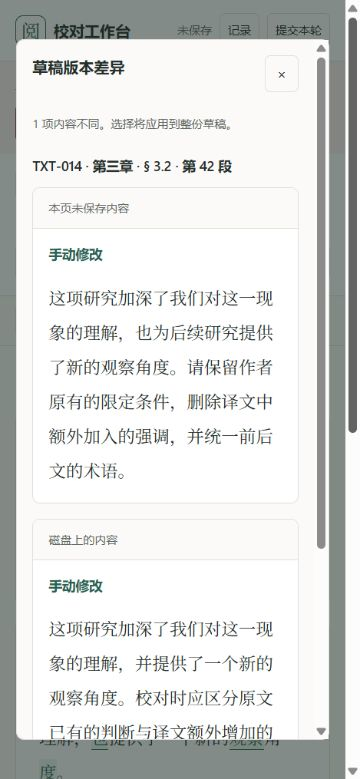
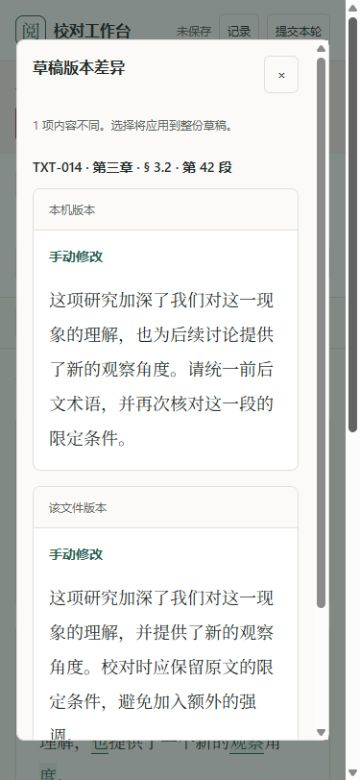
docs: rewrite README for readers and clarify draft version names

diff --git a/web/scripts/app.js b/web/scripts/app.js
@@ -181,18 +181,18 @@ async function compareDrafts() {
         ...differences.map(({item, local, remote: other}) => el("section", {class: "draft-difference"}, [
           el("h3", {}, `${item.id} · ${item.location || "审核条目"}`),
           el("div", {class: "comparison"}, [
-            draftVersion(item, local, "本页未保存内容"),
-            draftVersion(item, other, "磁盘上的内容"),
+            draftVersion(item, local, "本机版本"),
+            draftVersion(item, other, "该文件版本"),
           ]),
         ])),
         el("details", {class: "technical-details"}, [
           el("summary", {}, "技术详情"),
-          el("pre", {}, JSON.stringify({local: drafts.items, disk: remote.drafts.items}, null, 2)),
+          el("pre", {}, JSON.stringify({local: drafts.items, file: remote.drafts.items}, null, 2)),
         ]),
       ],
       [
         [
-          "保留磁盘版本",
+          "保留该文件版本",
           () => {
             drafts = structuredClone(remote.drafts);
             remoteRevision = drafts.revision;
@@ -205,10 +205,10 @@ async function compareDrafts() {
           },
         ],
         [
-          "使用本页版本",
+          "使用本机版本",
           async () => {
             if (remote.drafts.material_hash !== drafts.material_hash) {
-              notify("材料已经改变，请下载本页草稿并建立新一轮。");
+              notify("材料已经改变，请下载本机草稿并建立新一轮。");
               return;
             }
             remoteRevision = remote.drafts.revision;
@@ -1275,7 +1275,7 @@ async function boot() {
     render();
     const local = JSON.parse(sessionStorage.getItem(backupKey()) || "null");
     if (local && local.material_hash === drafts.material_hash)
-      notify("发现本页未保存的草稿。", [
+      notify("发现本机未保存的草稿。", [
         [
           "恢复",
           () => {

diff --git a/README.md b/README.md
@@ -1,99 +1,61 @@
-# 校对工作台
+# 校对工作台 · Review Workbench
 
-轻量的本地人工校对工具：原生网页、Python 服务、JSON 决定、Git 基准。支持中文 diff、术语、OCR、图片、TeX 公式和表格。业务 agent 负责准备材料与修改原稿，工具只保存和展示人工审核结果。
+在浏览器里逐项对照原稿、修改建议和参考材料，留下你的决定，再交回给负责修改的人或 AI。适合译文审校、术语统一、OCR 校正，以及公式、图片和表格的人工核对。
 
-## 运行示例
+![校对工作台界面](docs/audits/2026-10-30/ui-improvements/desktop.jpg)
 
-需要 Python 3.11+ 与 Git；提交或导入公式决定时还需要 Node.js，以便服务端使用同一份 KaTeX 校验。无需 npm 安装或前端构建。
+## 先试一下
 
-```powershell
+需要 **Python 3.11+** 和 **Git**。如果要提交或导入公式的审核结果，还需要 **Node.js**。前端资源随项目提供，无需安装 npm 依赖或构建网页。
+
+```sh
+git clone https://github.com/YanagionSabigi/review-workbench.git
+cd review-workbench
 python -m pip install -r requirements.txt
 python -m review_workbench demo --out demo-project
 python -m review_workbench serve demo-project/review
 ```
 
-终端给出仅本机可用的完整链接并打开浏览器。保留链接中的 `key`；页面载入后会从地址栏移除它。服务使用随机端口，重新启动时使用新打印的链接。关闭页面不影响已落盘的数据；关闭服务后重新启动即可继续。
+启动后会自动打开本机网页。演示包含六条材料，可以试着改一段文字、核对公式或给表格留意见。再次打开演示时，运行最后一条命令即可；之前保存的内容会保留。若网页没有自动打开，使用终端给出的完整链接。
 
-示例包含六项：译文、公式源图、术语、图表说明、表格、没有推荐方案的必审项。示例图片为生成的演示材料。
+## 怎么校对
 
-## 审核
+用目录和筛选找到材料，点击“展开条目”切换审核对象。默认一次看一项，也可以切到连续阅读；目录和条目列表都能收起，给正文留出空间。
 
-默认一次看一项，也可以切换连续阅读。目录互斥，筛选可交叉；选中的筛选条件取交集。“未审”包括必审项。每页最多 24 项。
+每一项可以选择一种处理方式：
 
-四个按钮互斥：接受建议、保留原版、手动修改、提出修改意见。手动修改与意见输入按选择展开；选中文字后可以引用。仅引用但未写意见不算完成。切换模式保留草稿，提交时只使用当前选择。右上角“已保存”意味着服务已确认落盘；“未保存”时应重试，旧页面冲突可先比较草稿。
+| 处理方式 | 用途 |
+| --- | --- |
+| 接受建议 | 采用右侧的建议内容 |
+| 保留原版 | 采用左侧的原版内容 |
+| 手动修改 | 直接编辑文字、TeX 或表格 |
+| 提出修改意见 | 留下需要继续处理的意见；选中文字后也可以引用 |
 
-批量批准只接受有推荐的普通待审项，跳过必审、已有决定或人工草稿的条目。提交本轮时可以选择部分范围。已审只表示人已作决定，意见仍需要 agent 处理。
+右上角“已保存”表示草稿已经保存。完成后点击“提交本轮”，选定要交回的条目。提出意见后，仍需由负责修改的人或 AI 处理；工作台保存审核结果，原稿的写回由原工作流程完成。
 
-图片可查看整页（调用方需提供），支持适应窗口、原比例、放大缩小、滚轮缩放与拖动。公式在本机渲染，编辑 TeX 时实时预览；不支持的命令明确显示错误。KaTeX 不是完整 LaTeX 编译器。首版图片圈画只有数据接口，尚无绘图按钮。
+图片可放大查看，提供整页图时也能打开整页；TeX 编辑会实时预览。公式预览使用 KaTeX，可用命令范围与完整 LaTeX 有区别。图片圈画尚无操作界面。
 
-## 交给其他 skill 使用
+## 用自己的材料，或交给别人校对
 
-通用入口：[skill/review-workbench/SKILL.md](skill/review-workbench/SKILL.md)。保持本仓库目录完整即可调用其中 launcher；也可生成含运行资源的独立 skill 安装包。
+工作台接收一个审核包，里面包含原版、建议和参考材料。准备工作通常交给 AI skill，也可以照示例手动整理。
 
-```powershell
-python -m review_workbench export-skill --out artifacts/review-workbench-skill.zip
-```
+- **使用自己的材料**：[操作指南](docs/usage.md)介绍准备、启动和继续一轮审核的方法。
+- **转交他人**：可以导出 ZIP；对方解压后在本机校对，再把结果交回。具体步骤见[转交与回收](docs/usage.md#转交与回收)。
+- **接入 AI 工作流**：从 [review-workbench skill](skill/review-workbench/SKILL.md)开始；输入格式见[协议](skill/review-workbench/references/protocol.md)和[完整示例](examples/demo/package.json)。
 
-将 ZIP 内 `review-workbench/` 放入使用者的 skills 目录。也可在其他 skill 中引用其 `SKILL.md`，并调用 `python <skill目录>/scripts/review.py ...`。安装包内含离线前端和 Python 代码；首次仍需安装 `runtime/requirements.txt`。本工具不会修改已有业务 skills。
+网页和审核数据由本机服务提供，使用时无需登录。多人或多个窗口给出不同决定时，工作台会保留冲突，供你明确选择。草稿比较中的“本机版本”指当前会话的修改，“该文件版本”指审核文件里已经保存的内容。
 
-输入和回馈见 [通用协议](skill/review-workbench/references/protocol.md)，机器约束见 [schemas](schemas)。完整可运行输入见 [examples/demo/package.json](examples/demo/package.json)。
+## 参与开发
 
-## 准备自己的审核包
+欢迎通过 [Issues](https://github.com/YanagionSabigi/review-workbench/issues)反馈问题或提交 Pull Request。报告界面问题时，附上操作步骤、浏览器和窗口大小会更方便复现；示例材料请尽量使用可公开的内容。
 
-1. 业务 skill 提供明确项目根目录、输入 JSON、资源与范围清单。范围清单是项目相对普通文件路径数组，不能包含无关暂存文件或整个目录。
-2. `before` 是页面原版，`proposal` 是建议，`baseline` 是本轮准备时的实际工作稿，`evidence` 是外文/扫描图等证据。先执行推荐时 `baseline` 可以不同于 `before`。
-3. 输入中的图片放在 `assets/`，路径相对于输入 JSON。没有推荐时 `proposal` 写 `null`，人工必审项设 `requires_human: true`。
+在仓库目录运行测试：
 
-```powershell
-python -m review_workbench validate input/package.json
-python -m review_workbench prepare --project PROJECT --input INPUT_JSON --scope SCOPE_JSON --out NEW_PACKAGE_DIR
-python -m review_workbench serve NEW_PACKAGE_DIR
-```
-
-prepare 复用项目已有 Git（含 worktree），没有则初始化指定项目。它用临时 index 把指定文件和审核材料保存为独立的 `refs/review-workbench/round-*` 基准提交，不移动业务 HEAD，不改变原有暂存内容，不执行 stash。身份未配置时会给出 Git 错误；由调用方处理，不写全局配置。真实材料会进入**业务项目的本地 Git 对象**，不是工具源码仓库；不会推送。
-
-一轮材料冻结后不要原地改 package.json 或图片。新的建议或原稿版本使用新输出目录；旧材料继续支持回传审核。
-
-## 迁移与回传
-
-```powershell
-python -m review_workbench export PACKAGE --out review.zip
-# 接收者需要离线安装 Python 依赖时：
-python -m review_workbench export PACKAGE --out review-offline.zip --offline-deps
-```
-
-ZIP 包含网页、公式资源、Python 运行代码、材料和一个仅含本轮材料的最小 Git 仓库，不复制业务仓库历史或账号配置。接收者解压后运行 `python -m pip install -r requirements.txt`，再运行 `python start_review.py`。
-
-带 `wheels/` 时离线安装：`python -m pip install --no-index --find-links wheels -r requirements.txt`。wheel 默认匹配导出机器的 Python/系统；跨平台接收者应联网安装声明依赖，或自行准备匹配 wheel。
-
-网页“记录”可以下载结果 JSON。也可回传仅结果 ZIP：
-
-```powershell
-python -m review_workbench export PACKAGE --results-only --out results.zip
-python -m review_workbench import-results ORIGINAL_PACKAGE --from results.zip
-```
-
-导入只读取数据，不执行回传包的程序。重复提交去重，不同决定保留并列出冲突；同编号不同内容拒绝导入。草稿不视为已提交结果。版本比较中可“采用此决定”明确解决冲突：生成带解决引用的新提交，旧记录仍保留；不会因为导入先后顺序自动覆盖。
-
-## Agent 继续工作与比较
-
-用户明确指示继续后，读取 `submissions/*.json` 的完整最终块或意见。工具不替业务 agent 写回。先生成当前工作稿投影，再比较：
-
-```powershell
-python -m review_workbench compare PACKAGE --current current.json
-```
-
-`current.json` 含 `package_id`、原 `base_commit`、`targets: [{target_id, blocks}]`。块结构与审核材料一致。结果写入 `comparison.json`，刷新页面后可查看基准、当前稿和人工决定。相同为已满足、当前未变为可应用、双方不同为冲突；多条不同人工决定保留冲突。Git 文本无冲突不代表语义正确。二进制图片不会自动合并。
-
-## 文件与验证
-
-`package.json` 为冻结材料；`drafts.json` 为自动保存的草稿；`submissions/` 为不可变人工提交；`comparison.json` 为比较结果。运行时锁文件无需人工处理。
-
-提交、导入和冲突解决会先记录 `.pending-operation.json`，再更新相关文件。操作记录成功落盘后，即使服务中途退出或返回保存错误，下次访问也会自动完成这次操作；恢复可重复执行，不重复递增 revision。不要手动删除未完成操作文件。该保证针对进程中断，不等同于物理断电下所有文件系统的持久性保证。比较计算期间若审核版本变化，会拒绝发布旧结果并提示重新运行比较。
-
-```powershell
+```sh
 python -m unittest discover -s tests -t . -v
 node --test tests/frontend.test.mjs tests/drafts.test.mjs
 ```
 
-Python 依赖为 jsonschema 及其传递依赖；HTTP 使用标准库。KaTeX 固定为 0.19.1，资源及 MIT 许可证位于 `web/vendor/katex/`，来源记录在 `VERSION`。设计参考 [Refactoring UI skill](https://github.com/edisonmbli/refactoring-ui-skill)，未复制其书籍内容。
+## 许可与致谢
+
+项目采用 [MIT 协议](LICENSE)。公式渲染使用 [KaTeX](https://katex.org/)，其许可证随[内置资源](web/vendor/katex/LICENSE)保留。界面设计参考 [Refactoring UI skill](https://github.com/edisonmbli/refactoring-ui-skill)。

diff --git a/docs/usage.md b/docs/usage.md
@@ -1,0 +1,99 @@
+# 校对工作台操作指南
+
+首次使用可以先运行 [README 中的演示](../README.md#先试一下)。下面的命令都在仓库目录执行；`PROJECT`、`INPUT_JSON` 等大写名称需要换成自己的路径。
+
+## 准备自己的材料
+
+每条审核材料包含原版、建议，以及可选的上下文、图片等证据。可以让负责翻译或修改的 AI 按 [skill 协议](../skill/review-workbench/references/protocol.md)整理，也可以参考 [输入示例](../examples/demo/package.json)手动准备。
+
+准备时需要三样东西：
+
+1. 业务项目目录，放着实际要修改的稿件。
+2. 输入 JSON 和它引用的图片等资源。
+3. 范围清单 JSON，内容是本轮涉及的项目相对文件路径数组，例如 `["chapters/03.md"]`。
+
+```sh
+python -m review_workbench validate INPUT_JSON
+python -m review_workbench prepare --project PROJECT --input INPUT_JSON --scope SCOPE_JSON --out NEW_PACKAGE_DIR
+python -m review_workbench serve NEW_PACKAGE_DIR
+```
+
+审核包目录必须位于指定项目内，且尚不存在。工作台会复用项目已有的 Git；项目没有 Git 时会初始化。首次为自己的项目准备材料前，需要已配置 Git 提交身份。准备操作会保存本轮文件的基准，保留原分支和暂存内容。
+
+输入里的几个版本有不同用途：`before` 是页面左侧的原版，`proposal` 是建议，`baseline` 是准备审核时实际工作稿的内容，`evidence` 是参考证据。如果 AI 已先把建议写进工作稿，baseline 就应记录写入后的内容。没有建议时将 proposal 设为 null；必须由人判断的项目设为 requires_human。
+
+材料准备完成后，请使用新的审核包目录开始下一轮，避免原地替换已经审核过的文字或图片。真实材料的基准会进入业务项目的本地 Git，不会自动推送到网上。
+
+## 保存、提交和版本比较
+
+草稿会自动保存。确认右上角显示“已保存”后，即可关闭网页；重新启动服务并使用新打印的完整链接，可以继续审核。
+
+“已审”表示这一项有可用的决定，提交时还可以选择其中一部分。批量批准会跳过必审项、已有提交和人工草稿。仅有引用、没有填写意见时，意见模式不计为完成。
+
+如果多个窗口修改了同一份草稿，页面会提示“比较草稿”：
+
+- **本机版本**：当前会话中的修改，可能尚未保存。
+- **该文件版本**：审核文件中已经保存的草稿。
+
+比较按条目展示实际内容。选择“使用本机版本”或“保留该文件版本”会应用到整份草稿；它不会自动逐条合并。展开“其他草稿内容”可以查看切换处理方式时保留的输入，技术结构在“技术详情”中。
+
+提交、结果导入和冲突解决若被进程退出打断，下一次访问会自动继续完成已经记录的操作。不要删除审核包里的未完成操作文件。持续的磁盘写入故障仍需先处理；此恢复机制不等于物理断电或存储介质损坏时的保证。
+
+## 转交与回收
+
+把整轮材料导出为 ZIP：
+
+```sh
+python -m review_workbench export PACKAGE --out review.zip
+```
+
+对方解压后，在解压目录运行：
+
+```sh
+python -m pip install -r requirements.txt
+python start_review.py
+```
+
+对方需要 Python 3.11+、Git；提交公式决定时还需要 Node.js。ZIP 中已有网页、公式资源和本轮材料；原业务仓库的历史和账号配置不会复制进去。
+
+完成后，可在网页“记录”中下载结果 JSON，也可以导出仅结果的 ZIP：
+
+```sh
+python -m review_workbench export PACKAGE --results-only --out results.zip
+```
+
+原项目接收结果：
+
+```sh
+python -m review_workbench import-results ORIGINAL_PACKAGE --from results.zip
+```
+
+重复回传会去重，不同决定会保留为冲突。同编号却内容不同的结果会拒绝导入。导入只读取数据，不运行对方回传包中的程序。
+
+如果接收者无法联网安装 Python 依赖，导出时可使用 `--offline-deps`。对方再运行：
+
+```sh
+python -m pip install --no-index --find-links wheels -r requirements.txt
+```
+
+依赖包默认匹配导出机器的系统和 Python 版本；跨系统使用时，应联网安装声明依赖，或准备相匹配的 wheel。
+
+## 交回原工作流程
+
+人工提交之后，负责修改的人或 AI 读取 `submissions/` 中的完整决定或意见，再按原有流程处理原稿。`drafts.json` 是恢复输入用的草稿，尚未提交的内容不应当作最终决定。
+
+如果原稿在审核期间继续发生了变化，调用方应先提供当前稿的结构化投影，再运行比较：
+
+```sh
+python -m review_workbench compare PACKAGE --current current.json
+```
+
+`current.json` 的字段见 [协议](../skill/review-workbench/references/protocol.md)。比较结果区分已满足、可应用、冲突和待处理意见；仍需人工判断语义是否正确。比较计算期间若审核结果又被更新，命令会提示重新运行，避免覆盖较新的结果。
+
+## 安装为独立 skill
+
+```sh
+python -m review_workbench export-skill --out artifacts/review-workbench-skill.zip
+```
+
+将 ZIP 中的 `review-workbench/` 放进使用者的 skills 目录。安装包携带运行资源；首次使用仍需安装其中 `runtime/requirements.txt` 的依赖。具体调用方式见包内 SKILL.md。

diff --git a/docs/audits/2026-10-30/ui-improvements/verification.md b/docs/audits/2026-10-30/ui-improvements/verification.md
@@ -20,7 +20,7 @@
 - 窄屏初始态同时可见原版和建议，不再先经过约 200px 的横向条目卡片。默认队列高度实测 52.4px。
 - 目录展开后主目录与交叉筛选仍可达；展开条目、选择公式项后，`aria-expanded` 回到 false。连续视图也可展开全部六项并操作列表。
 - 制造两个真实页面的过时 revision：一页保存长文本，另一页编辑不同版本并触发保存 409。弹窗实际显示两个文本版本，技术 JSON 初始不可见。
-- 点击“使用本页版本”后，等待已保存并刷新，文字保持；另一页再次触发冲突并点击“保留磁盘版本”，恢复到相同文字。
+- 点击“使用本机版本”后，等待已保存并刷新，文字保持；另一页再次触发冲突并点击“保留该文件版本”，恢复到相同文字。
 - 另向真实演示包保存公式和表格草稿；比较弹窗实际产生一个 KaTeX 公式和一张表格，并正确列出三个变化条目。
 - 另建含长中文段落的冻结审核包，验证正文不横向溢出；375px 下可定位意见输入、填写并保存。
 
@@ -49,3 +49,5 @@
 演示材料、服务 token 和运行草稿位于忽略的 artifacts 目录，未进入本轮 Git 提交。本轮 GitHub 目标使用用户纠正后的 `YanagionSabigi/review-workbench`。
 
 已创建并核验[公共远程仓库](https://github.com/YanagionSabigi/review-workbench)，默认分支 main，GitHub 识别许可证为 MIT。实现提交 `4164773` 已推送；本地 origin 指向该仓库。现有 README 保留原内容。
+
+后续文案与文档调整：按用户要求，版本名称统一为“本机版本”和“该文件版本”，两张比较截图已同步更新；真实冲突选择及刷新恢复再次验证通过。README 已在后续一轮按 crafting-effective-readmes 重新编写，详细操作移至 `docs/usage.md`。该轮 Node 7 项、语法及本地文档链接检查通过，并重新运行演示创建/启动命令。
